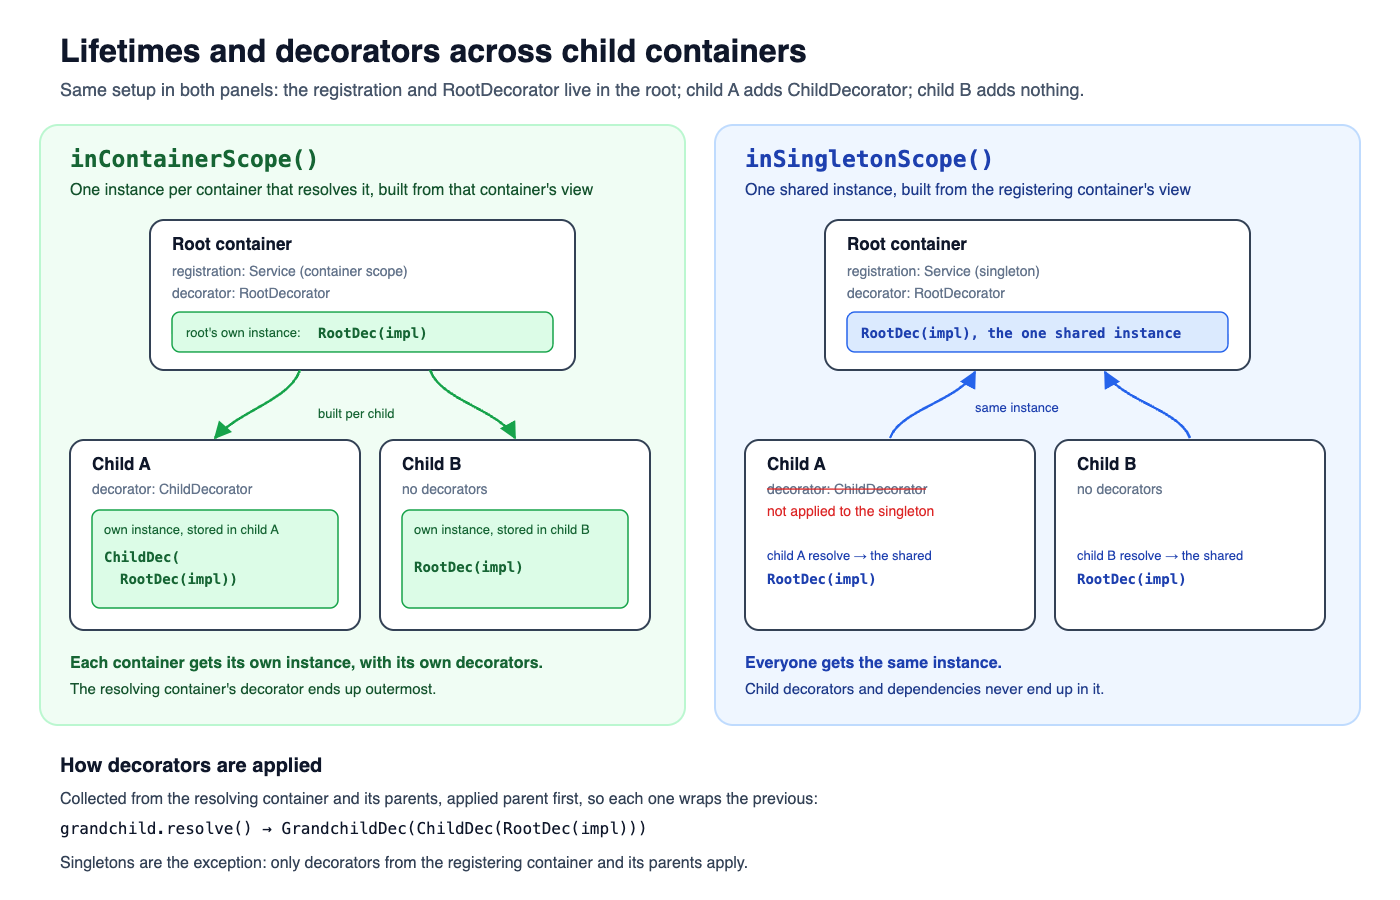
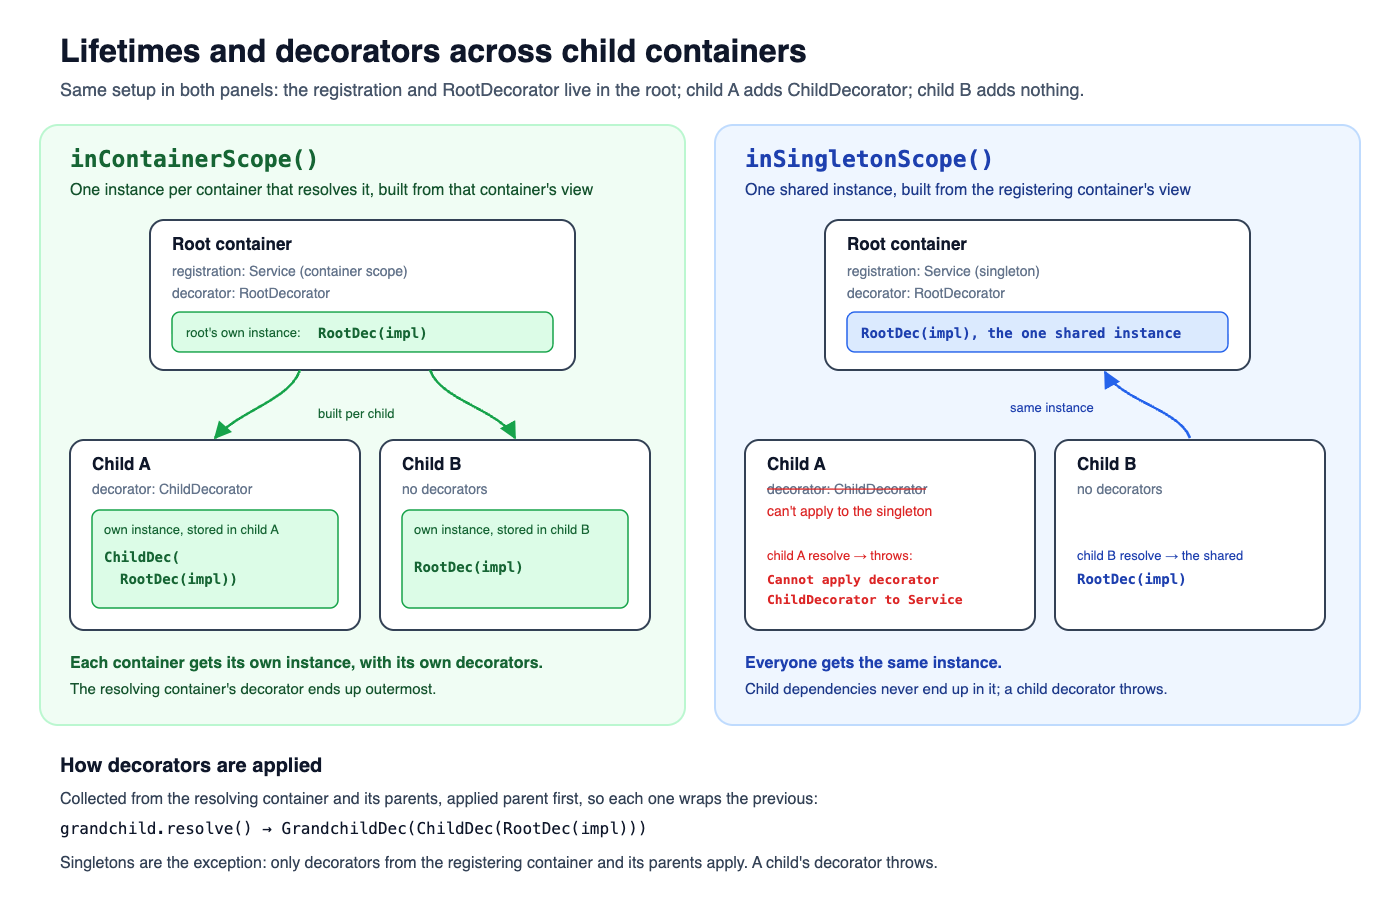
feat: throw when a child decorates a parent's singleton
A singleton only takes decorators from the container that registered it and
its parents, so a decorator registered in a child container for it could
never apply. Resolving the singleton from that child now throws instead of
skipping the decorator silently. A child that registers its own
implementation can still decorate it.

Suggested by Bruno Zorić.

diff --git a/__tests__/decoratorChain.test.ts b/__tests__/decoratorChain.test.ts
@@ -194,17 +194,38 @@ describe("Decorator chain across the container hierarchy - transient, instance a
 });
 
 describe("Decorator chain across the container hierarchy - shared singleton", () => {
-  test("a child decorator does not reach the shared instance", () => {
+  test("a child decorator on a parent's singleton throws instead of being skipped", () => {
     const parent = new Container();
     parent.register(BaseServiceImpl).inSingletonScope();
     parent.registerDecorator(ParentDecoratorImpl);
     const child = parent.createChildContainer();
     child.registerDecorator(ChildDecoratorImpl);
 
-    const fromChild = child.resolve(Service);
+    expect(() => child.resolve(Service)).toThrow(
+      /Cannot apply decorator ChildDecorator to Service/
+    );
+    expect(parent.resolve(Service).execute()).toBe("parentDec(base)");
+  });
 
-    expect(fromChild.execute()).toBe("parentDec(base)");
-    expect(parent.resolve(Service)).toBe(fromChild);
+  test("the error also fires when the singleton is already cached", () => {
+    const parent = new Container();
+    parent.register(BaseServiceImpl).inSingletonScope();
+    parent.resolve(Service);
+    const child = parent.createChildContainer();
+    child.registerDecorator(ChildDecoratorImpl);
+
+    expect(() => child.resolve(Service)).toThrow(/Cannot apply decorator ChildDecorator/);
+  });
+
+  test("a child that registers its own implementation can decorate it", () => {
+    const parent = new Container();
+    parent.register(BaseServiceImpl).inSingletonScope();
+    const child = parent.createChildContainer();
+    child.register(BaseServiceImpl).inSingletonScope();
+    child.registerDecorator(ChildDecoratorImpl);
+
+    expect(child.resolve(Service).execute()).toBe("childDec(base)");
+    expect(parent.resolve(Service).execute()).toBe("base");
   });
 
   test("decorators registered above the registering container still apply", () => {
@@ -213,7 +234,6 @@ describe("Decorator chain across the container hierarchy - shared singleton", ()
     const owner = root.createChildContainer();
     owner.register(BaseServiceImpl).inSingletonScope();
     const child = owner.createChildContainer();
-    child.registerDecorator(ChildDecoratorImpl);
 
     expect(child.resolve(Service).execute()).toBe("parentDec(base)");
     expect(owner.resolve(Service)).toBe(child.resolve(Service));

diff --git a/src/Container.ts b/src/Container.ts
@@ -271,6 +271,10 @@ export class Container {
     resolutionStack: Map<symbol, boolean>,
     resolveFrom: Container
   ): T {
+    if (registration.scope === LifetimeScope.Singleton) {
+      this.assertNoDecoratorsBelow(abstraction, resolveFrom);
+    }
+
     const cache = this.getInstanceCache(registration.scope, resolveFrom);
     if (cache?.has(registration)) {
       return cache.get(registration);
@@ -369,6 +373,27 @@ export class Container {
     }
 
     return results;
+  }
+
+  /**
+   * A singleton only takes decorators from the container that registered it and that container's
+   * parents. A decorator registered between the resolving container and this one would never apply,
+   * so fail loudly instead of skipping it.
+   */
+  private assertNoDecoratorsBelow<T>(abstraction: Abstraction<T>, resolveFrom: Container): void {
+    let container: Container | undefined = resolveFrom;
+
+    while (container && container !== this) {
+      const decorators = container.decorators.get(abstraction.token);
+      if (decorators && decorators.length > 0) {
+        const decoratorName = decorators[0]!.decoratorClass.name;
+        throw new Error(
+          `Cannot apply decorator ${decoratorName} to ${abstraction.toString()}: it is registered in a child container, but ${abstraction.toString()} is a singleton registered in a parent container and is shared by every container below it. Register the decorator in the container that registers ${abstraction.toString()}, or register ${abstraction.toString()} with inContainerScope().`
+        );
+      }
+
+      container = container.parent;
+    }
   }
 
   private collectDecorators<T>(token: symbol): DecoratorRegistration<T>[] {

diff --git a/.changeset/container-scope.md b/.changeset/container-scope.md
@@ -4,6 +4,6 @@
 
 **Breaking:** singletons are now built from the view of the container that holds the registration. Before, a singleton registered in a parent took its dependencies and decorators from whichever child resolved it first, and every other container got that child's version. A parent-registered singleton that depends on something registered only in a child container no longer sees it: an optional dependency resolves to `undefined`, and a required one throws "No registration found". To migrate, register the dependency where the singleton is registered, or switch the singleton to `inContainerScope()`.
 
-**Breaking:** decorators are now collected from the container that resolves an abstraction, for transient, container-scoped, instance and factory registrations. Decorators registered in a child container now apply to those registrations even when they live in a parent. Singletons keep the registering container's decorators.
+**Breaking:** decorators are now collected from the container that resolves an abstraction, for transient, container-scoped, instance and factory registrations. Decorators registered in a child container now apply to those registrations even when they live in a parent. Singletons keep the registering container's decorators, and resolving a singleton from a child container that registered its own decorator for it now throws an error instead of silently skipping that decorator.
 
 Add `inContainerScope()`: one instance per container that resolves it, built from that container's view and cached in it. Register it once in a parent and every child container gets its own instance.

diff --git a/README.md b/README.md
@@ -235,9 +235,9 @@ Use it for state that must not outlive a child container, such as a per-request 
 
 Decorators are collected from the container that resolves the abstraction, plus its parents, applied parent first. Each one wraps the previous, so the resolving container's decorator ends up outermost: `ChildDec(RootDec(impl))`.
 
-The one exception is a singleton: its decorators come from the container that holds the registration, because a child's decorator would otherwise be baked into the instance every other container shares.
+The one exception is a singleton: its decorators come from the container that holds the registration, because a child's decorator would otherwise be baked into the instance every other container shares. A decorator registered in a child container for a singleton registered in a parent can never apply, so resolving the singleton from that child throws an error instead of skipping the decorator silently. Register the decorator where the singleton is registered, or use `inContainerScope()`.
 
-![Lifetimes and decorators across child containers: with inContainerScope, each container gets its own instance with its own decorators; with inSingletonScope, every container gets the one shared instance and child decorators are not applied](docs/images/lifetimes-and-decorators.png)
+![Lifetimes and decorators across child containers: with inContainerScope, each container gets its own instance with its own decorators; with inSingletonScope, every container gets the one shared instance and a child decorator throws an error](docs/images/lifetimes-and-decorators.png)
 
 ## Advanced Features
 
